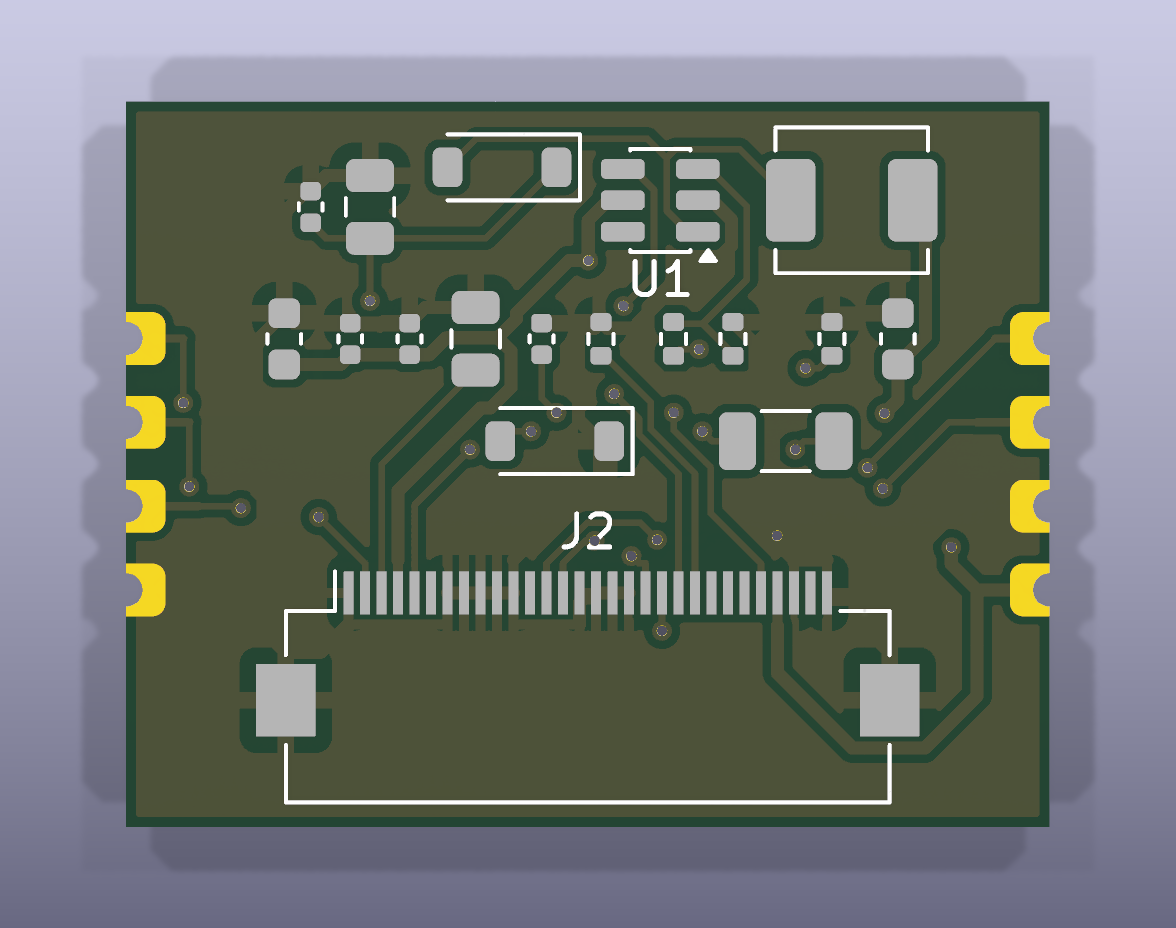
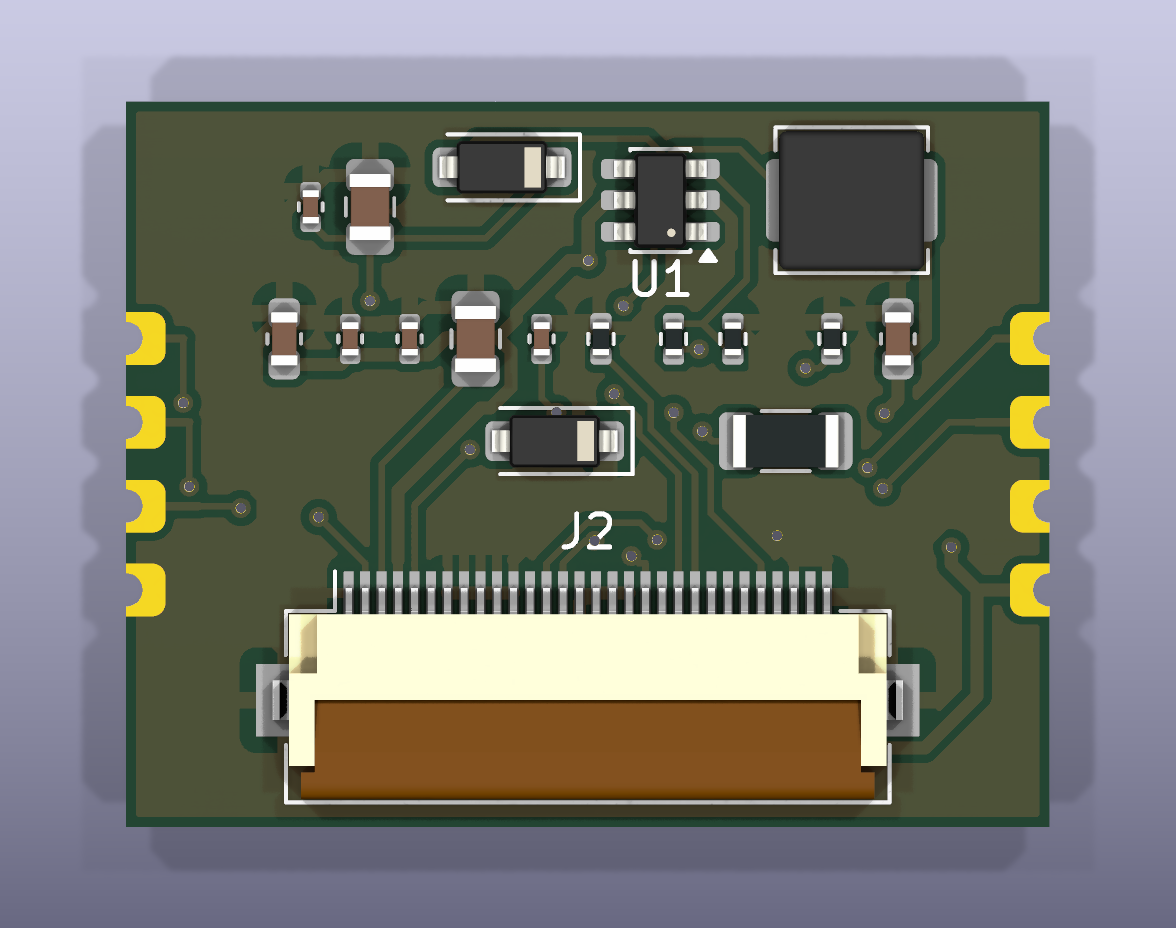
Renders with 3D part models

diff --git a/README.md b/README.md
@@ -15,6 +15,10 @@ Status: **v0.1.0, schematics and PCBs done, autorouted.** Both modules are 28 ×
 |:---:|:---:|:---:|:---:|
 | <img src="docs/images/tft-top.png" width="200"> | <img src="docs/images/tft-bottom.png" width="200"> | <img src="docs/images/oled-top.png" width="200"> | <img src="docs/images/oled-bottom.png" width="200"> |
 
+| TFT, parts side | OLED, parts side |
+|:---:|:---:|
+| <img src="docs/images/tft-3d.png" width="400"> | <img src="docs/images/oled-3d.png" width="400"> |
+
 ## What both modules share
 
 | | |
